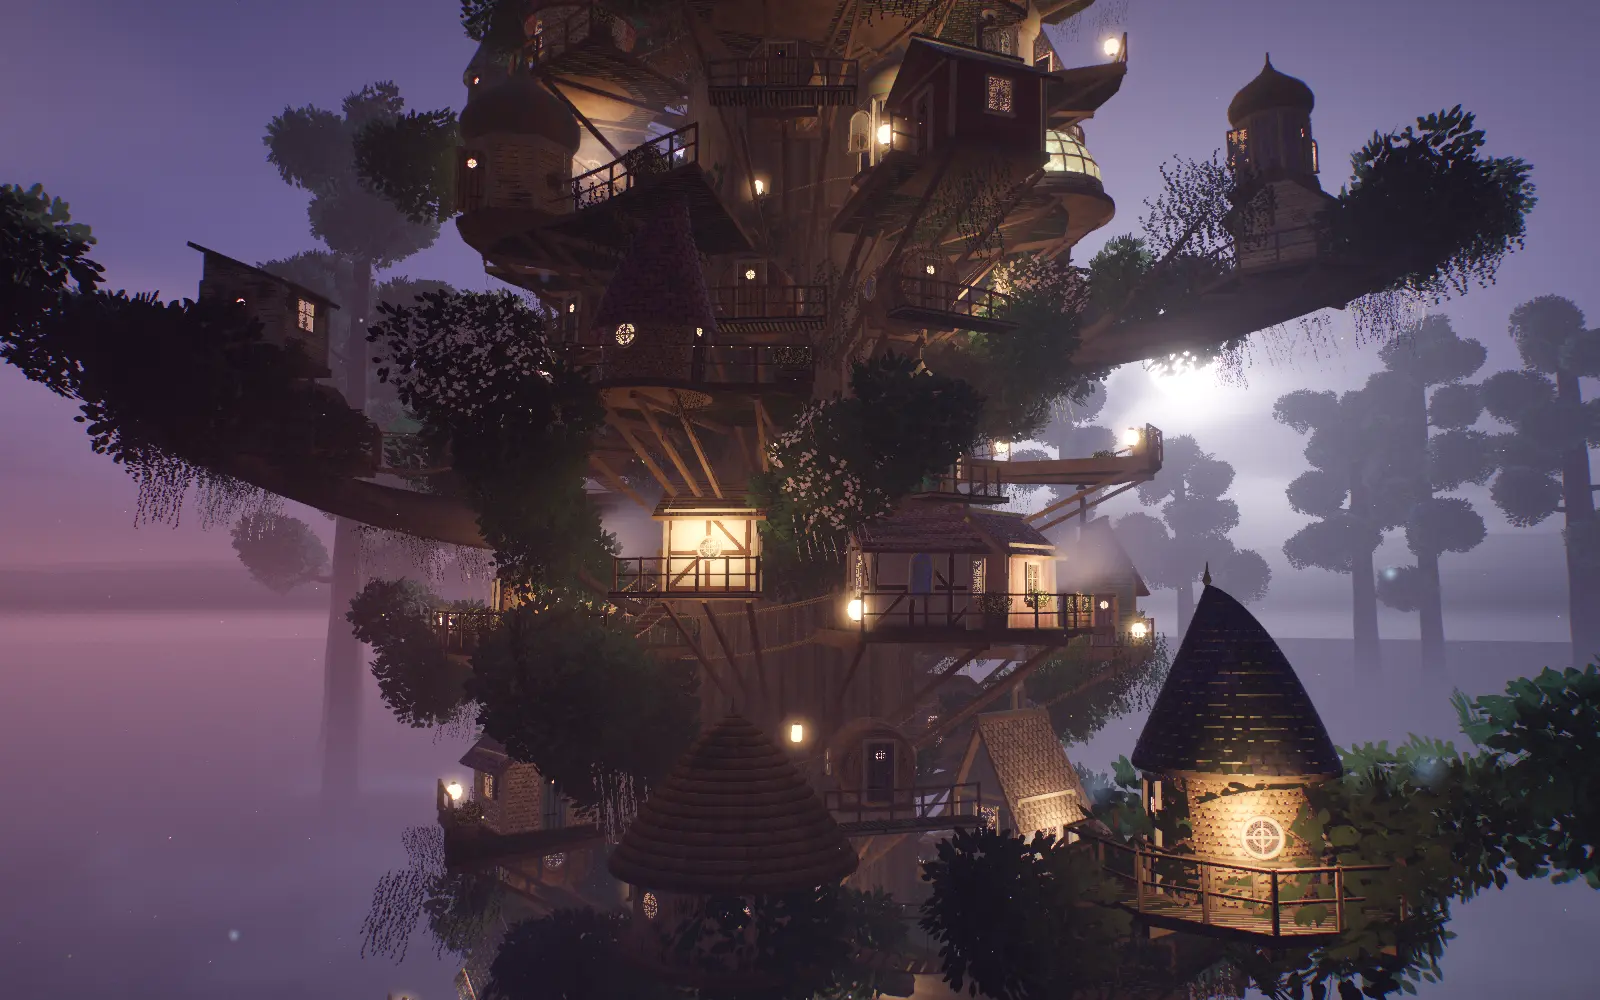
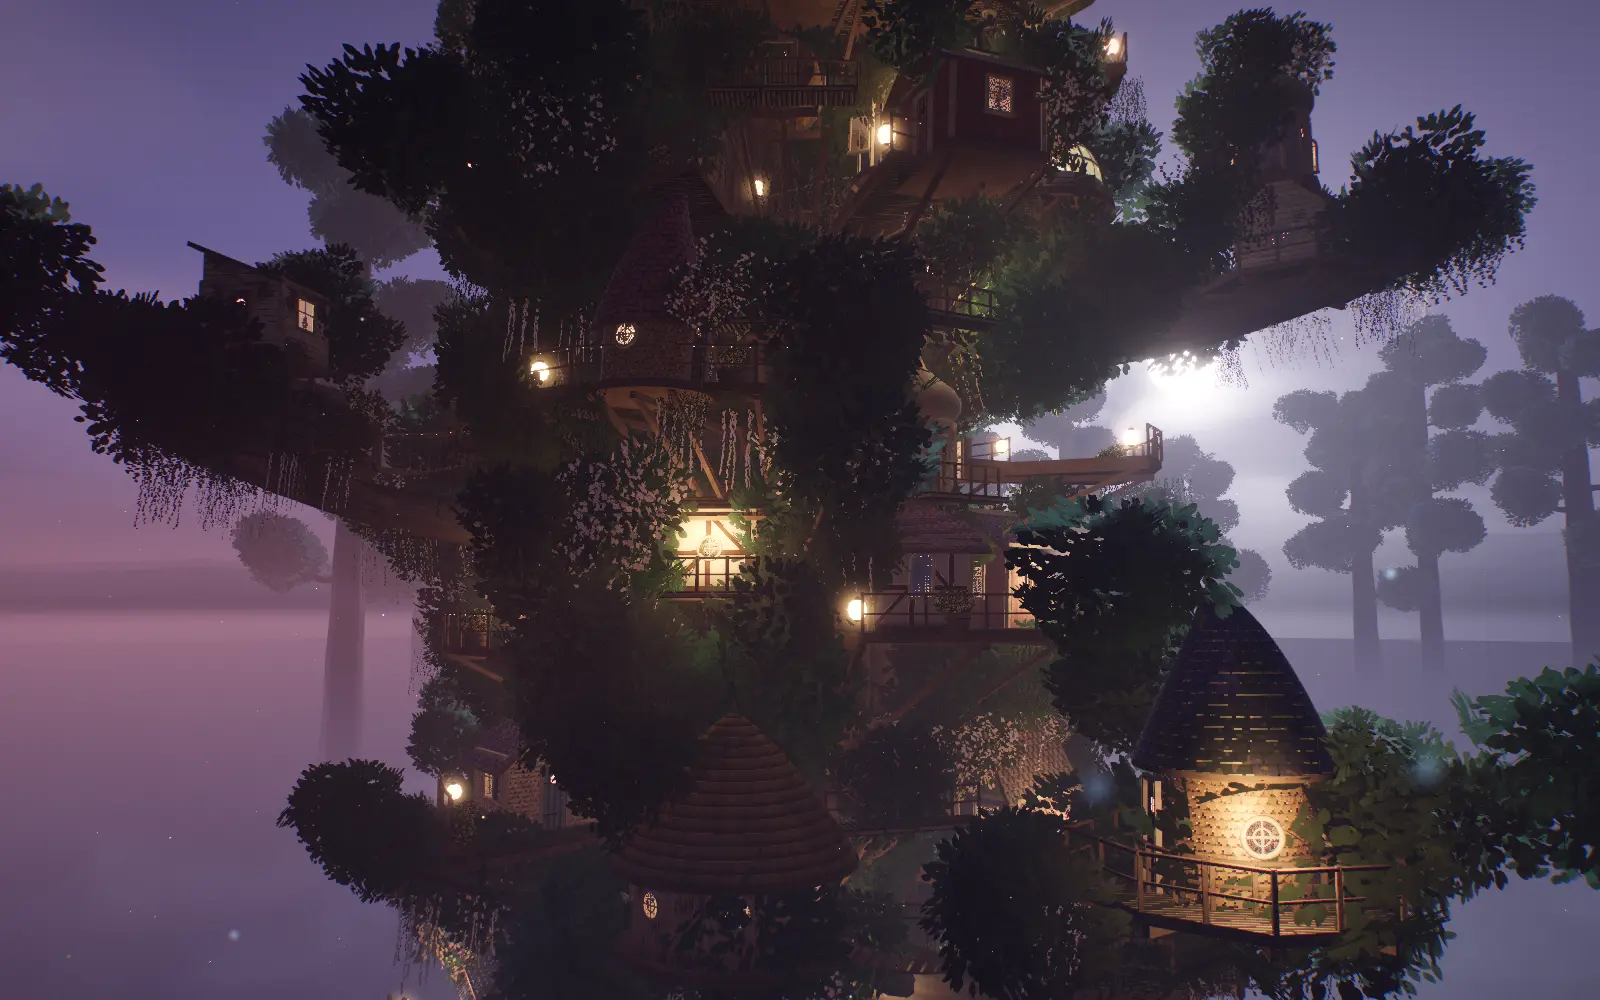
Aerie: denser leaves round the houses
Leaves crowd the sides, backs and roofs of every house (fronts left clear
for the windows), some hang under its floor, and up to 110 leafy branches
thread between the houses. Screenshots re-shot.

Claude-Session: https://claude.ai/code/session_017FFPNewX9WNqBBEhSFCkDf

diff --git a/js/aerie3d.js b/js/aerie3d.js
@@ -1174,17 +1174,26 @@ function city(b, sb, out) {
     bunting(b, V(A.x, A.y + A.top * 0.8, A.z), V(B.x, B.y + B.top * 0.8, B.z), 0.6, 1400 + i); n++;
   }
   // leafy branches growing out of the trunk between the houses, wherever there is room
-  for (let k = 0, made = 0; k < 400 && made < 46; k++) {
+  for (let k = 0, made = 0; k < 1500 && made < 110; k++) {
     const y = 10 + R() * 50, a = R() * TAU, [ax, az] = tAxis(T, y), d = V(Math.sin(a), 0, Math.cos(a)), len = 6 + R() * 6, rise = 2 + R() * 4, r0 = 0.28 + R() * 0.18;
     const P = (t) => V(ax, y, az).addScaledVector(d, tRad(T, y) * 0.8 + len * t).add(V(0, rise * t * t, 0)).add(V(-d.z, 0, d.x).multiplyScalar(Math.sin(t * 3 + k) * 0.8));
     let ok = true;
-    for (let t = 0.25; t <= 1 && ok; t += 0.125) { const p = P(t); ok = occ.every((o) => p.y < o.y0 - 0.5 || p.y > o.y1 + 0.5 || Math.hypot(p.x - o.x, p.z - o.z) > o.r + 0.4); }
+    for (let t = 0.25; t <= 0.8 && ok; t += 0.11) { const p = P(t); ok = occ.every((o) => p.y < o.y0 - 0.3 || p.y > o.y1 + 0.3 || Math.hypot(p.x - o.x, p.z - o.z) > o.r + 0.15); }
     if (!ok) continue;
     b.room(0, 0, 0); b.set(MAT.BARK, [1, 1, 1], 1600 + k, TAU * r0); b.tube(Array.from({ length: 7 }, (_, q) => P(q / 6)), (t) => r0 * (1 - 0.8 * t), 6);
     for (let q = 0; q < 5; q++) green({ p: P(0.45 + q * 0.14).add(V((R() - 0.5) * 2, 0.4 + R(), (R() - 0.5) * 2)), s: 1.8 + R() * 1.4, cell: R() < 0.2 ? 1 : 0 });
     if (R() < 0.6) green({ p: P(0.7), s: 1.6 + R(), drape: true, cell: R() < 0.5 ? 2 : 3 });
-    claim(P(0.7).x, P(0.7).z, 1.5, P(0.7).y - 1, P(0.7).y + 1.5, "leaf");
     made++;
+  }
+  // leaves crowding round every house: at its sides and back and over its roof, leaving the front and its windows clear
+  for (const h of houses) {
+    const n = 3 + Math.floor(R() * 3);
+    for (let q = 0; q < n; q++) {
+      const th = h.yaw + Math.PI + (R() < 0.5 ? -1 : 1) * (0.3 + R() * 1.9), rr = h.r * (0.75 + R() * 0.35) + 0.3;
+      const top = h.top ?? 3, y = h.y + (q === 0 ? top * (0.85 + R() * 0.3) : top * (0.35 + R() * 0.7));
+      green({ p: V(h.x + Math.sin(th) * rr, y, h.z + Math.cos(th) * rr), s: 1.4 + R() * 1.2, cell: R() < 0.15 ? 1 : 0 });
+    }
+    if (R() < 0.45) { const th = h.yaw + Math.PI + (R() - 0.5) * 2.5; green({ p: V(h.x + Math.sin(th) * h.r * 0.9, h.y - 0.2, h.z + Math.cos(th) * h.r * 0.9), s: 1.4 + R() * 1.4, drape: true, cell: R() < 0.5 ? 2 : 3 }); }
   }
   // ivy hanging in curtains from the platform edges
   for (const g of segs) for (let i = 1; i < g.O.length; i += 2) if (R() < 0.55) green({ p: g.O[i].clone().add(V(0, -0.15, 0)), s: 1.4 + R() * 1.6, drape: true, cell: 3 });

diff --git a/js/data.js b/js/data.js
@@ -14,7 +14,7 @@ export const worlds = [
     kicker: "A city in a tree",
     tagline: "A village of crooked houses stacked up one giant tree, above the mist at moonrise.",
     description:
-      "Some eighty houses crowd the trunk and the great limbs of a single tree: perched on brackets, stacked two and three high on each other's roofs at odd angles, a pod swinging on ropes, a barrel, an onion dome, a glass greenhouse, witch's-hat towers. Platforms ring the trunk in broken arcs, a spiral stair climbs inside them, rope bridges and strings of lights run between the houses, ivy hangs off the edges, and the mist lies far below. Fly round it on a circle, up and down, closer or further out.",
+      "Some eighty houses crowd the trunk and the great limbs of a single tree: perched on brackets, stacked two and three high on each other's roofs at odd angles, a pod swinging on ropes, a barrel, an onion dome, a glass greenhouse, witch's-hat towers. Platforms ring the trunk in broken arcs, a spiral stair climbs inside them, rope bridges and strings of lights run between the houses, leaves crowd round them and ivy hangs off the edges, and the mist lies far below. Fly round it on a circle, up and down, closer or further out.",
     date: "2026-10",
     genre: "Scene",
     tags: ["three.js", "GLSL", "procedural", "WebAudio"],

diff --git a/AGENTS.md b/AGENTS.md
@@ -21,7 +21,7 @@ Deployed by GitHub Pages from `master` (custom domain in `CNAME`).
 | `js/hearth3d.js` | Fourth scene, fullscreen at `hearth/`: an A-frame in an old spruce forest on a cold autumn evening, seen at eye height (`EYE`). The cabin (`CABIN`, turned by `CABIN.yaw`; its own frame has the front gable toward +z, dimensions `B`, `HR`, `Y0`, `ZG`, `YL`, `ZL`) stands in a clearing; `toWorld`/`toLocal` convert, `uCabInv` gives shaders the cabin frame. The front gable is one triangle whose fragment shader (`GABLE`) lays out boards, door, windows and glazing and ray-traces the room behind the glass (floor, roof planes, loft with string lights, a stone back wall with an open hearth, sofa, pendant lamp, a person walking about). The back gable, the footing and the chimney stack are `STONEWALL` (big stones in courses; a small loft window); smoke (CPU particles, `CHIMNEY`) rises from the chimney, sparks when stoked. Roof (`ROOF`): shingles, moss, a roof window each side. Firewood (`LOG`: rounds, halves, quarters) in the lean-to and a round stack; pumpkins on the steps; a string of lights over the deck (two poles, cables sagging back to the gable, emissive bulbs). A flagstone path (`PATH`, drawn in the `GROUND` shader). Trees (spruce, pine, larch, snags) are instanced lathe trunks (`TRUNK`) plus whorls of branches (`WHORL`) textured from an atlas painted needle by needle at startup (`paintAtlas`: 8 cells 256×1024, sprays pre-distorted for the whorl's polar mapping, a dead branch, bracken, grass, blueberry); dead twigs and fallen litter use the dead-branch cell. Lighting is custom (`shade()`): sky light dimmed under the canopy (`openness`), a last glow (`GLOW_DIR`), the cabin's six lights (`uLp/uLn/uLc/uLk/uLs`: glazing, door and windows, lantern, two roof windows, the string over the deck) and their glow in the mist (`scatter`, closed form). Roe deer, a fox and hares (`quadruped()`, `ANIMAL`, posed in the vertex shader) walk loops round the cabin (`ROUTES`, `routeAt`; trees are kept off the trails) in herds that walk, graze and look up (`animals()`). You walk round the cabin on a circle (`ORBIT0`, `DIST0`, `DMIN`..`DMAX`), stepping round trunks (`obstacles`): ←/→ or A/D walk round, ↑/↓, +/−, the wheel or a pinch come closer, the mouse looks round. Instanced meshes are cut into rings and compass sectors round the cabin and culled by three. Seeded (`R` places trees, `D` decorates, `AR` drives the animals). On coarse-pointer devices (`LITE`) the forest is thinner. `window.__hearth` exposes `{frame, setView(orbitDeg, dist, yawDeg, pitchDeg), look([x,y,z],[x,y,z]), setNight, toggleNight, stoke, zoomBy, scene, camera, stats}`; with reduced motion it draws single frames (screenshot with `setView(...)` then `frame(0)`). |
 | `js/hearth-audio.js` | Hearth soundscape (WebAudio): wind in the crowns, creaking trunks, a raven (an owl at night), the fire heard through the walls (louder close up and when stoked). The page's controls: Sound (M), − / + (come closer), Stoke the fire (S), Nightfall (N), Fullscreen (F). |
 | `js/post.js` | Post chain shared by the scenes: HDR target, dual-filter bloom, and a scene-specific composite shader passed in. |
-| `js/aerie3d.js` | Fifth scene, fullscreen at `aerie/`: a city of treehouses in one giant tree (`TREES[0]`: base radius 5.4 m, 112 m tall, leaning top) at moonrise over a sea of mist. `city()` generates it, seeded (`rng(9)`), so it is the same on every load: every piece claims a cylinder (`claim`, `fits`; tags `deck`, `limb<i>`, `leaf`), and a house is built only where it fits. Order: six great limbs (`LIMBS`) with side branches and leaves; platforms in broken arcs round the trunk at seven levels (`TIERS`), inner edge `sr(y)` so the spiral stair runs between them and the bark; houses crowded along the platforms (some hanging out over the edge on braces); houses on little decks out on the limbs and pods on ropes under them; houses perched on brackets straight off the trunk; rooms stacked on roofs (`H.stack`, up to three high, each turned on the one below); rope bridges between houses at like heights where the way is `clear`; leafy branches out of the trunk wherever there is room; ivy curtains off the platform edges. House kinds (`planHouse` sizes them, `buildHouse` builds them): `gable`, `shed`, `tower`, `witch` (fish-scale walls, curled cone), `thatch`, `onion` (copper dome; the first carries the weathervane), `aframe`, `barrel` (the first carries the windmill), `dome` (greenhouse); walls and roofs from `WALLS`/`ROOFS`. All structure is one uber-material (`BUILD_FRAG`, material id in `aK.x`, see `MAT`): clapboard, shingles, fish-scale, thatch, half-timbered plaster, board and batten, deck boards, bark, rope, copper, paper lanterns, glowing fungus, flags, greenhouse glass, doors, and windows with an interior-mapped lit room (`windowCol`: wallpaper, books or a picture, curtains, a lamp, a plant). Built with `builder()` (`room`/`push`/`face`/`box`/`beam`/`lathe`/`tube`; `bend` leans and twists a whole house); lanterns and pods go in the swinging builder (`aPv` pivot). Moonlight has a shadow map rendered once (`shRT`, leaves cut out); the 24 brightest well-spread warm lights (`NL`) light everything, plus `cityGlow`; mist is height fog (`fogOD`). Leaves are instanced clumps of cards from a painted atlas (`paintLeaves`: broad leaves, blossom, wisteria, trailing moss), the near ones fade so you can fly through. Fireflies, spores, wisps, string-light bulbs and lantern halos are one point cloud (`GLOW_VERT`, kind in `aK.x`); sky lanterns (`release()`) rise and drift. You fly round the trunk on a circle (`CTR`, `DMIN`..`DMAX`, `HMIN`..`HMAX`), gliding on your own; `CLR` pushes you out wherever the city reaches further. `window.__aerie` exposes `{frame, setView(angDeg, dist, height, lookXDeg, lookYDeg), look(p, q), release, toggleNight, setNight, toggleGlide, zoomBy, rise, scene, camera, stats}`; with reduced motion it draws single frames (screenshot with `setView(...)` then `frame(0)`; step time with `frame(dt)`). |
+| `js/aerie3d.js` | Fifth scene, fullscreen at `aerie/`: a city of treehouses in one giant tree (`TREES[0]`: base radius 5.4 m, 112 m tall, leaning top) at moonrise over a sea of mist. `city()` generates it, seeded (`rng(9)`), so it is the same on every load: every piece claims a cylinder (`claim`, `fits`; tags `deck`, `limb<i>`, `leaf`), and a house is built only where it fits. Order: six great limbs (`LIMBS`) with side branches and leaves; platforms in broken arcs round the trunk at seven levels (`TIERS`), inner edge `sr(y)` so the spiral stair runs between them and the bark; houses crowded along the platforms (some hanging out over the edge on braces); houses on little decks out on the limbs and pods on ropes under them; houses perched on brackets straight off the trunk; rooms stacked on roofs (`H.stack`, up to three high, each turned on the one below); rope bridges between houses at like heights where the way is `clear`; leafy branches out of the trunk wherever there is room; leaves crowding the sides, backs and roofs of every house (fronts left clear for the windows); ivy curtains off the platform edges. House kinds (`planHouse` sizes them, `buildHouse` builds them): `gable`, `shed`, `tower`, `witch` (fish-scale walls, curled cone), `thatch`, `onion` (copper dome; the first carries the weathervane), `aframe`, `barrel` (the first carries the windmill), `dome` (greenhouse); walls and roofs from `WALLS`/`ROOFS`. All structure is one uber-material (`BUILD_FRAG`, material id in `aK.x`, see `MAT`): clapboard, shingles, fish-scale, thatch, half-timbered plaster, board and batten, deck boards, bark, rope, copper, paper lanterns, glowing fungus, flags, greenhouse glass, doors, and windows with an interior-mapped lit room (`windowCol`: wallpaper, books or a picture, curtains, a lamp, a plant). Built with `builder()` (`room`/`push`/`face`/`box`/`beam`/`lathe`/`tube`; `bend` leans and twists a whole house); lanterns and pods go in the swinging builder (`aPv` pivot). Moonlight has a shadow map rendered once (`shRT`, leaves cut out); the 24 brightest well-spread warm lights (`NL`) light everything, plus `cityGlow`; mist is height fog (`fogOD`). Leaves are instanced clumps of cards from a painted atlas (`paintLeaves`: broad leaves, blossom, wisteria, trailing moss), the near ones fade so you can fly through. Fireflies, spores, wisps, string-light bulbs and lantern halos are one point cloud (`GLOW_VERT`, kind in `aK.x`); sky lanterns (`release()`) rise and drift. You fly round the trunk on a circle (`CTR`, `DMIN`..`DMAX`, `HMIN`..`HMAX`), gliding on your own; `CLR` pushes you out wherever the city reaches further. `window.__aerie` exposes `{frame, setView(angDeg, dist, height, lookXDeg, lookYDeg), look(p, q), release, toggleNight, setNight, toggleGlide, zoomBy, rise, scene, camera, stats}`; with reduced motion it draws single frames (screenshot with `setView(...)` then `frame(0)`; step time with `frame(dt)`). |
 | `js/aerie-audio.js` | Aerie soundscape (WebAudio): wind in the leaves (stronger higher up, `height`), crickets, tree frogs, wind chimes in a reverb, creaking ropes, an owl at night; `release()` a rush and a rising run of bells. The page's controls: Sound (M), − / + (closer), ↑ / ↓ (rise, sink), Gliding (G), Lanterns (L), Nightfall (N), Fullscreen (F). |
 | `storm/`, `shade/`, `torus/`, `hearth/`, `aerie/` | Fullscreen pages for the five scenes, linked from the Worlds gallery. |
 | `js/storm-audio.js` | Storm soundscape (WebAudio): wind, rain, surf, thunder, the lighthouse's diaphone foghorn (`foghorn`), a distant ship's horn (`horn`), a submarine's ballast blow (`surface`). The storm page's controls: Sound (M), Lightning (L), Boat (B: a ship in the distance; every fifth press, `SUB_EVERY` in `storm/index.html`, the submarine instead), Foghorn (H, switches the sound on), Fullscreen (F). |
